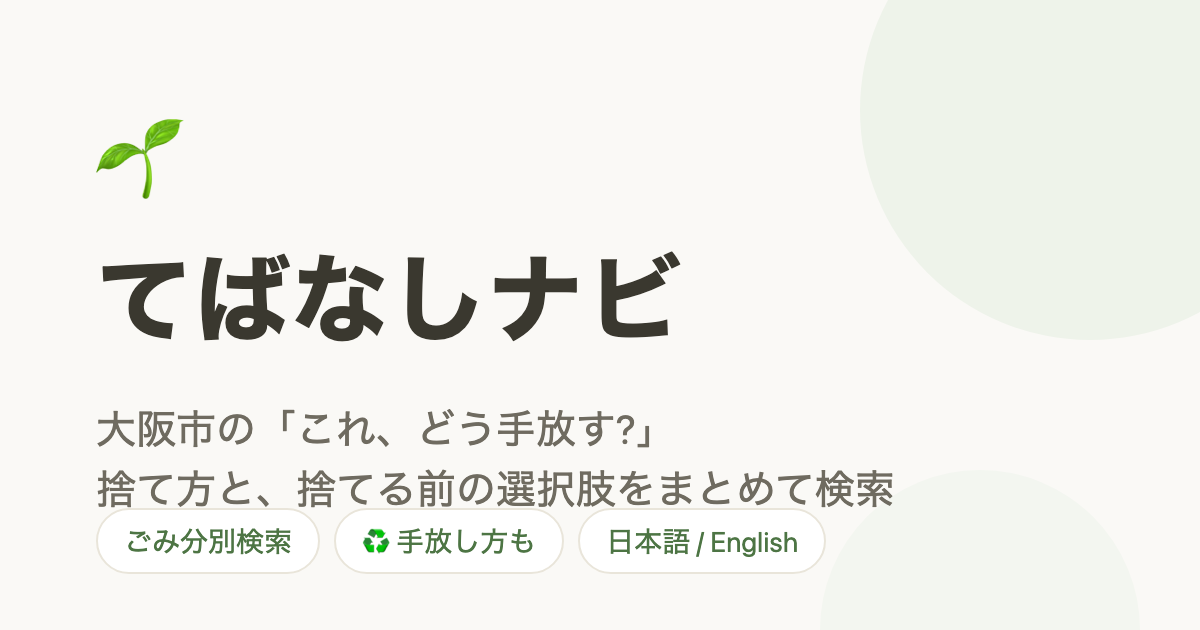
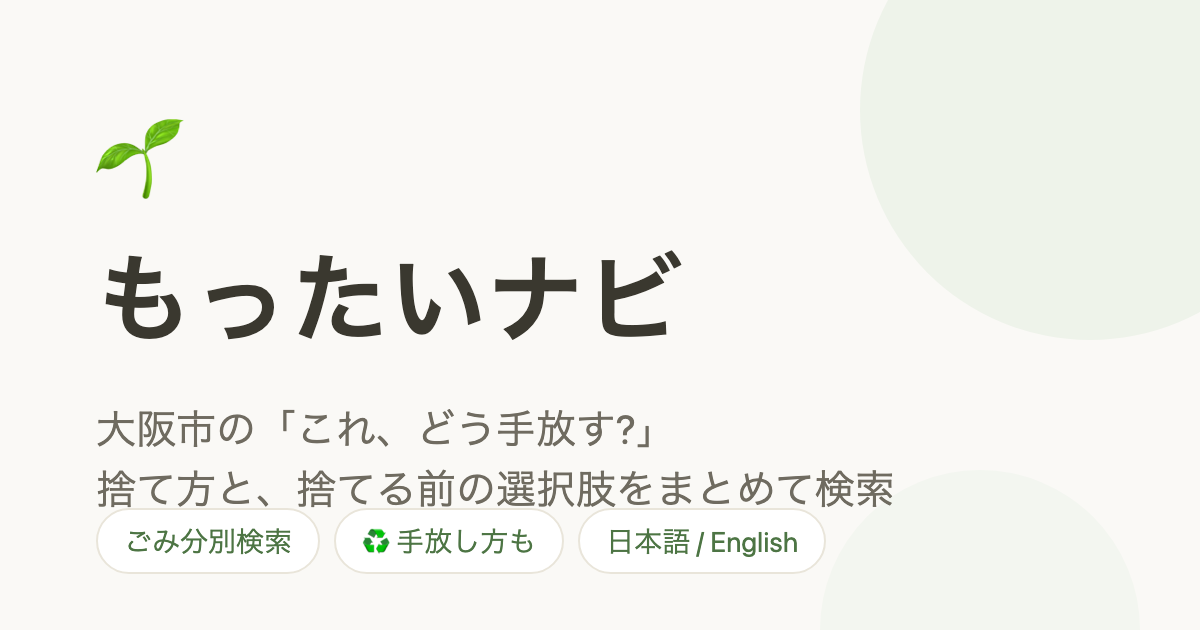
chore: てばなしナビ → もったいナビ(Mottainavi)にリネーム
全国展開を見据えて大阪色のない名前に変更。docs/requirements.md の
「名称は後日確定」を確定させる。

- 新ドメイン mottainavi.kaztada.eco に切替(旧ドメインは308リダイレクトで存続)
- UI辞書・metadata・About・品目ページタイトルの表記を更新
- GitHub Issues URL、User-Agent、package name を更新
- localStorageキー tebanashi-lang → mottainavi-lang(言語設定は一度リセット)
- OGP画像を新名で再生成

diff --git a/src/app/about/page.tsx b/src/app/about/page.tsx
@@ -3,9 +3,9 @@ import { AboutShell } from "@/components/AboutShell"
 import { getMunicipality } from "@/lib/data"
 
 export const metadata: Metadata = {
-  title: "このサイトについて | てばなしナビ",
+  title: "このサイトについて | もったいナビ",
   description:
-    "てばなしナビは、大阪市のごみ分別検索に「捨てる前の選択肢」を添えた非公式ツールです。出典・ライセンス・運営者について。",
+    "もったいナビは、大阪市のごみ分別検索に「捨てる前の選択肢」を添えた非公式ツールです。出典・ライセンス・運営者について。",
 }
 
 export default function AboutPage() {

diff --git a/src/app/layout.tsx b/src/app/layout.tsx
@@ -3,8 +3,8 @@ import { Analytics } from "@vercel/analytics/react"
 import { LanguageProvider } from "@/lib/i18n"
 import "./globals.css"
 
-const SITE_URL = "https://tebanashi.kaztada.eco"
-const TITLE = "てばなしナビ"
+const SITE_URL = "https://mottainavi.kaztada.eco"
+const TITLE = "もったいナビ"
 const DESCRIPTION =
   "大阪市の「これ、どう手放す?」— 捨て方と、捨てる前の選択肢をまとめて調べられる非公式ナビ"
 

diff --git a/src/app/item/[id]/page.tsx b/src/app/item/[id]/page.tsx
@@ -25,7 +25,7 @@ export async function generateMetadata({
   const item = getItemById(id)
   if (!item) return {}
   return {
-    title: `${item.name_ja}の捨て方・手放し方 | てばなしナビ`,
+    title: `${item.name_ja}の捨て方・手放し方 | もったいナビ`,
     description: `大阪市での「${item.name_ja}」の分別区分と出し方、捨てる前の選択肢。`,
   }
 }

diff --git a/scripts/lib/fetch-cache.ts b/scripts/lib/fetch-cache.ts
@@ -19,7 +19,7 @@ export async function fetchWithCache(
   const res = await fetch(url, {
     headers: {
       // 個人開発の分別検索ツール。問い合わせ可能なUAを名乗る
-      "User-Agent": "tebanashi-navi/0.1 (personal recycling-guide project)",
+      "User-Agent": "mottainavi/0.1 (personal recycling-guide project)",
     },
   })
   if (!res.ok) {

diff --git a/src/components/AboutShell.tsx b/src/components/AboutShell.tsx
@@ -7,7 +7,7 @@ import { useT } from "@/lib/i18n"
 import { LangToggle } from "./LangToggle"
 import { SourceNote } from "./SourceNote"
 
-const GITHUB_ISSUES_URL = "https://github.com/kaztada/tebanashi-navi/issues"
+const GITHUB_ISSUES_URL = "https://github.com/kaztada/mottainavi/issues"
 const AUTHOR_URL = "https://kaztada.eco"
 
 function Section({

diff --git a/src/lib/i18n.tsx b/src/lib/i18n.tsx
@@ -12,7 +12,7 @@ import uiEn from "../../data/i18n/ui.en.json"
 
 export type Lang = "ja" | "en"
 
-const STORAGE_KEY = "tebanashi-lang"
+const STORAGE_KEY = "mottainavi-lang"
 const DICTS: Record<Lang, Record<string, string>> = {
   ja: uiJa,
   en: uiEn,

diff --git a/README.md b/README.md
@@ -1,10 +1,10 @@
-# 🌱 てばなしナビ
+# 🌱 もったいナビ
 
 **大阪市の「これ、どう手放す?」— 捨て方と、捨てる前の選択肢をまとめて調べられる非公式ナビ**
 
-https://tebanashi.kaztada.eco
+https://mottainavi.kaztada.eco
 
-![てばなしナビ OGP](public/ogp.png)
+![もったいナビ OGP](public/ogp.png)
 
 品目名を検索すると、大阪市での正しい分別区分・出し方に加えて、**捨てる前に検討できる選択肢**(リユース・拠点回収・寄付・買取・譲り合い)を1画面で提示します。コンセプトは「捨てる前に、ちょっとだけ立ち止まれる場所」。
 
@@ -51,4 +51,4 @@ npm run build        # 本番ビルド(全品目SSG)
 
 Kaz Tada — [kaztada.eco](https://kaztada.eco) / #ちるエコ日和
 
-誤りの報告・提案は [Issues](https://github.com/kaztada/tebanashi-navi/issues) へどうぞ。
+誤りの報告・提案は [Issues](https://github.com/kaztada/mottainavi/issues) へどうぞ。

diff --git a/CLAUDE.md b/CLAUDE.md
@@ -1,6 +1,6 @@
-# CLAUDE.md — てばなしナビ プロジェクト規約
+# CLAUDE.md — もったいナビ プロジェクト規約
 
-このリポジトリは「てばなしナビ」— 大阪市の品目別ごみ分別検索に、捨てる前の「手放す」選択肢(リユース・回収・買取等)を統合したモバイルファーストWebアプリ。
+このリポジトリは「もったいナビ」— 大阪市の品目別ごみ分別検索に、捨てる前の「手放す」選択肢(リユース・回収・買取等)を統合したモバイルファーストWebアプリ。
 
 ## 最初に読むもの
 

diff --git a/docs/screens.md b/docs/screens.md
@@ -29,7 +29,7 @@
 
 ```
 ┌─────────────────────────┐
-│  🌱 てばなしナビ         [EN]│  ← 言語トグル(右上)
+│  🌱 もったいナビ         [EN]│  ← 言語トグル(右上)
 │  大阪市の「これ、どう手放す?」│
 │                             │
 │  ┌───────────────────┐  │

diff --git a/docs/requirements.md b/docs/requirements.md
@@ -1,6 +1,6 @@
 # requirements.md — 要件定義書
 
-プロジェクト仮称: **てばなしナビ**(名称は後日確定)
+プロジェクト仮称: **もったいナビ**(名称は後日確定)
 バージョン: v0.1 (2026-07-04)
 作成: Kaz Tada + Claude (Fable 5)
 

diff --git a/docs/tech-stack.md b/docs/tech-stack.md
@@ -27,7 +27,7 @@
 ## 3. プロジェクト構造
 
 ```
-tebanashi-navi/
+mottainavi/
 ├── CLAUDE.md
 ├── docs/                      # 設計書一式(このセット)
 ├── data/                      # data-model.md 参照
